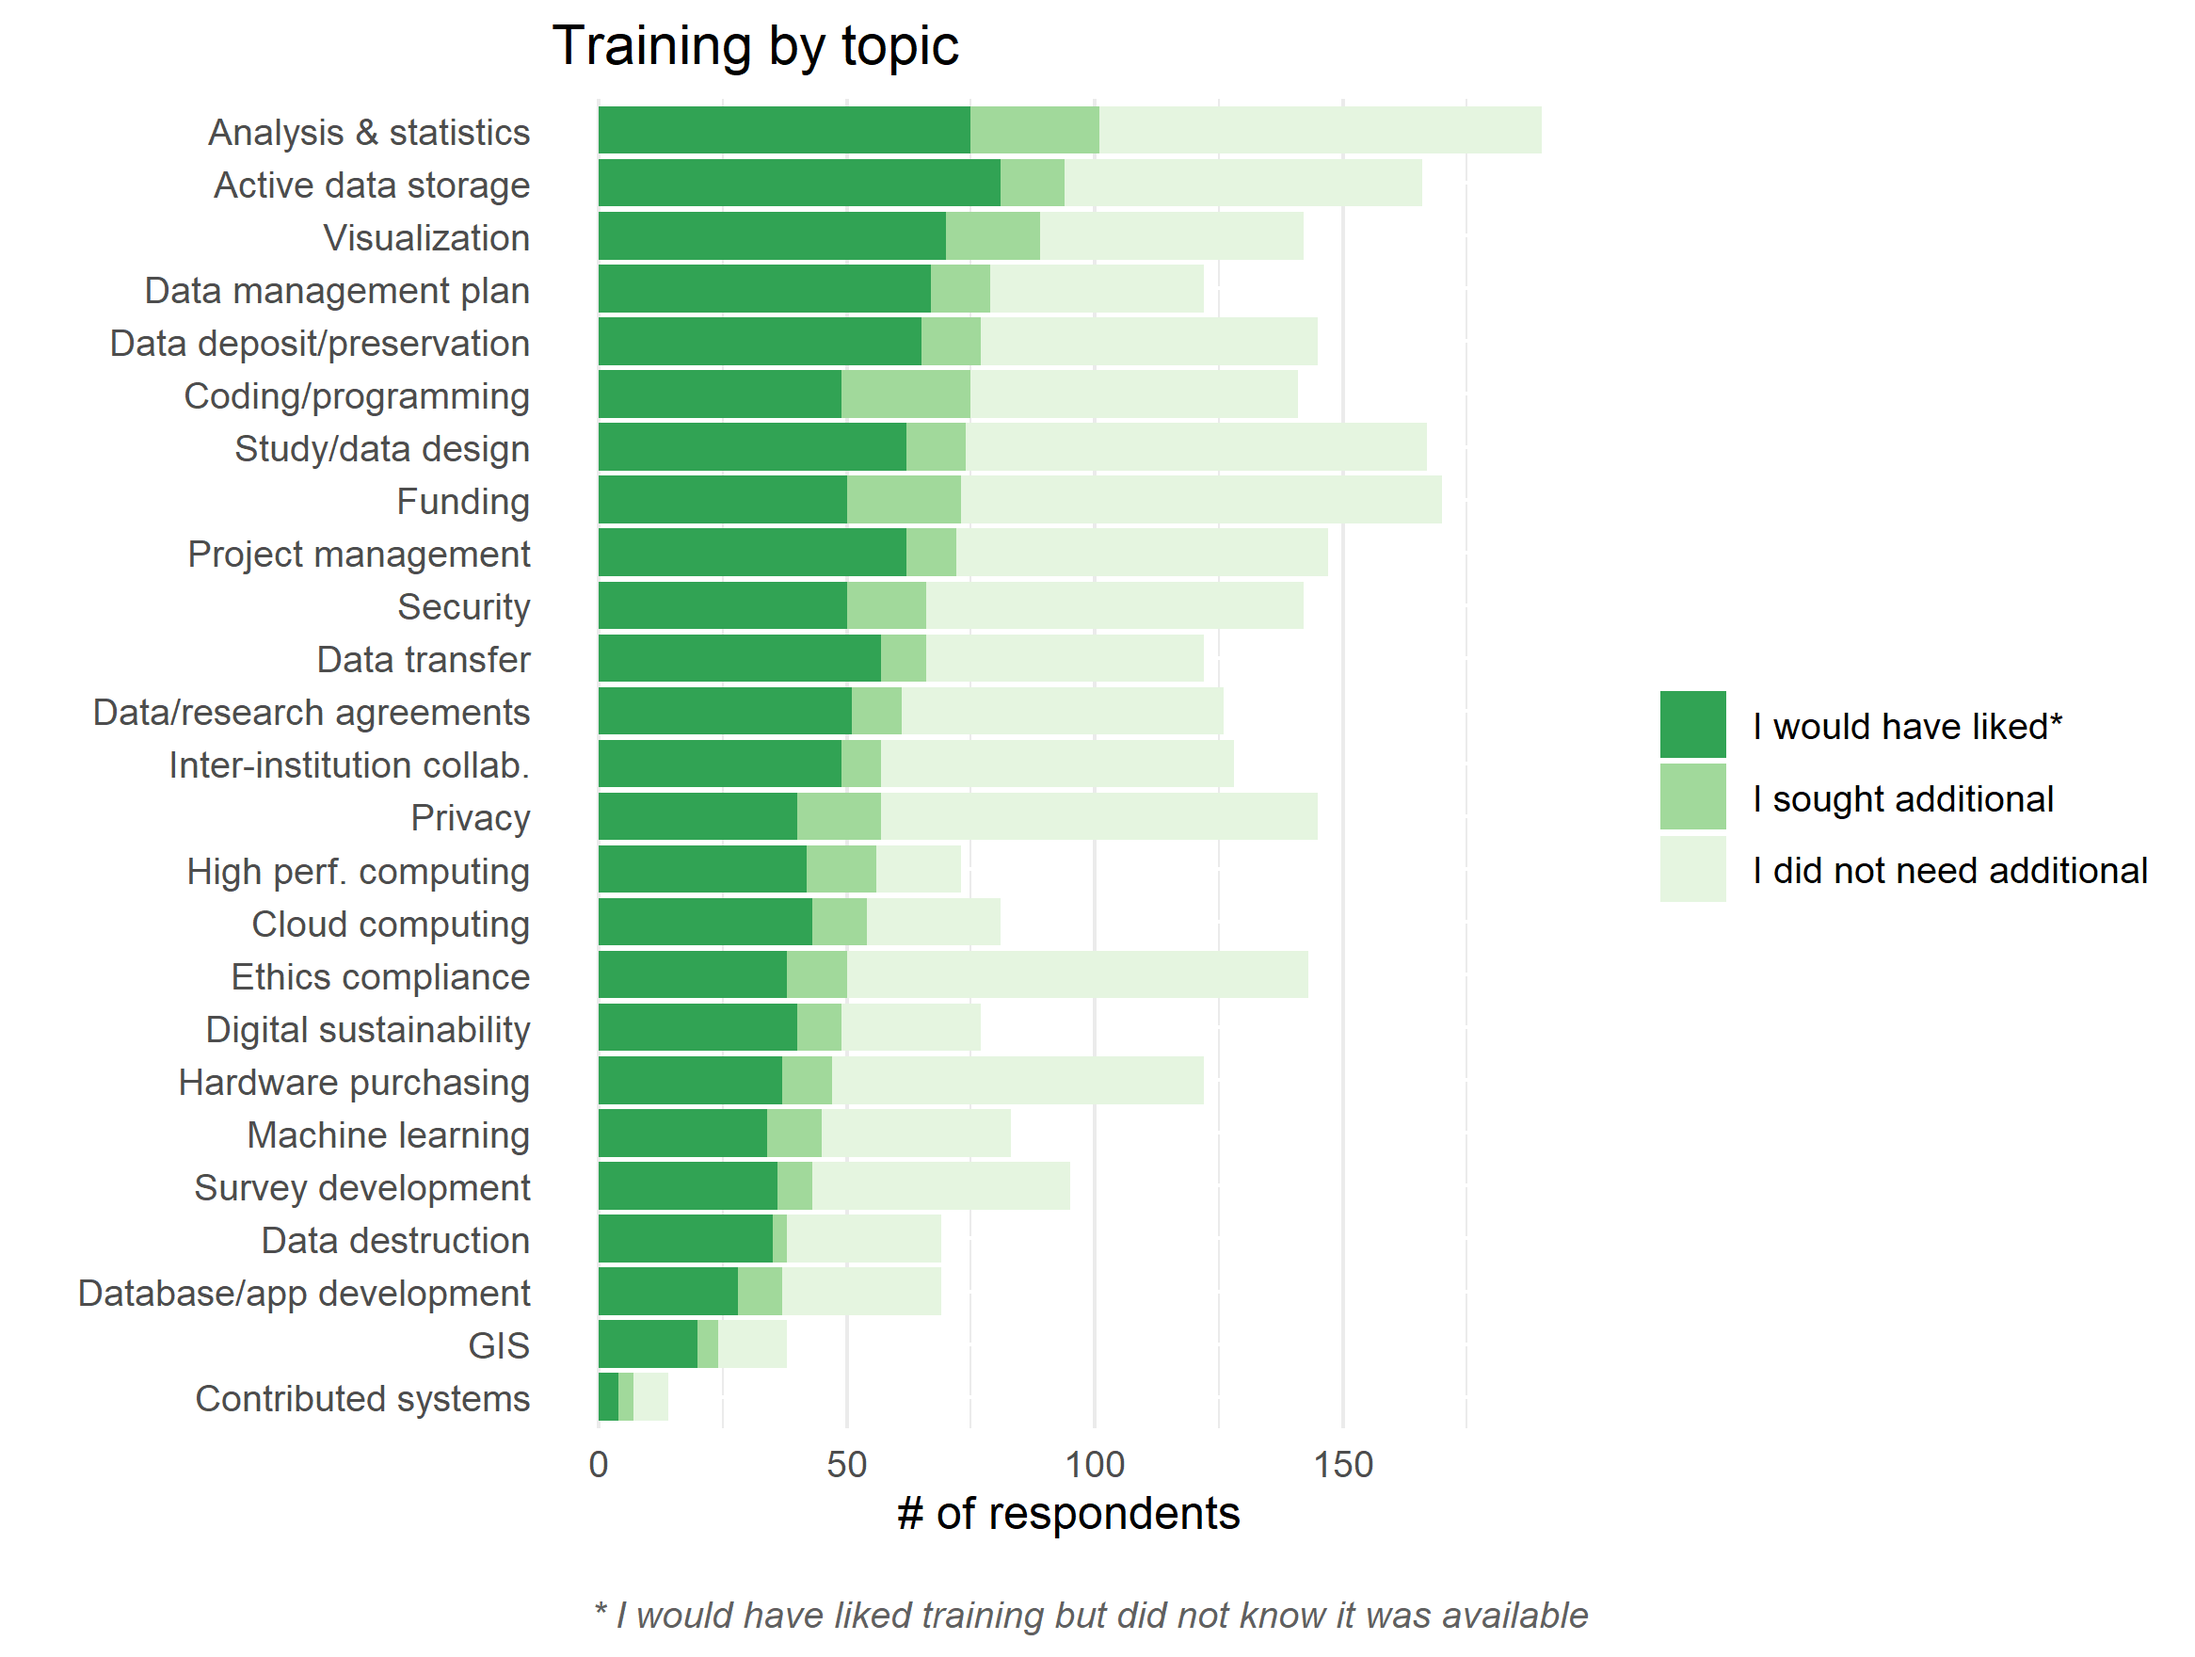
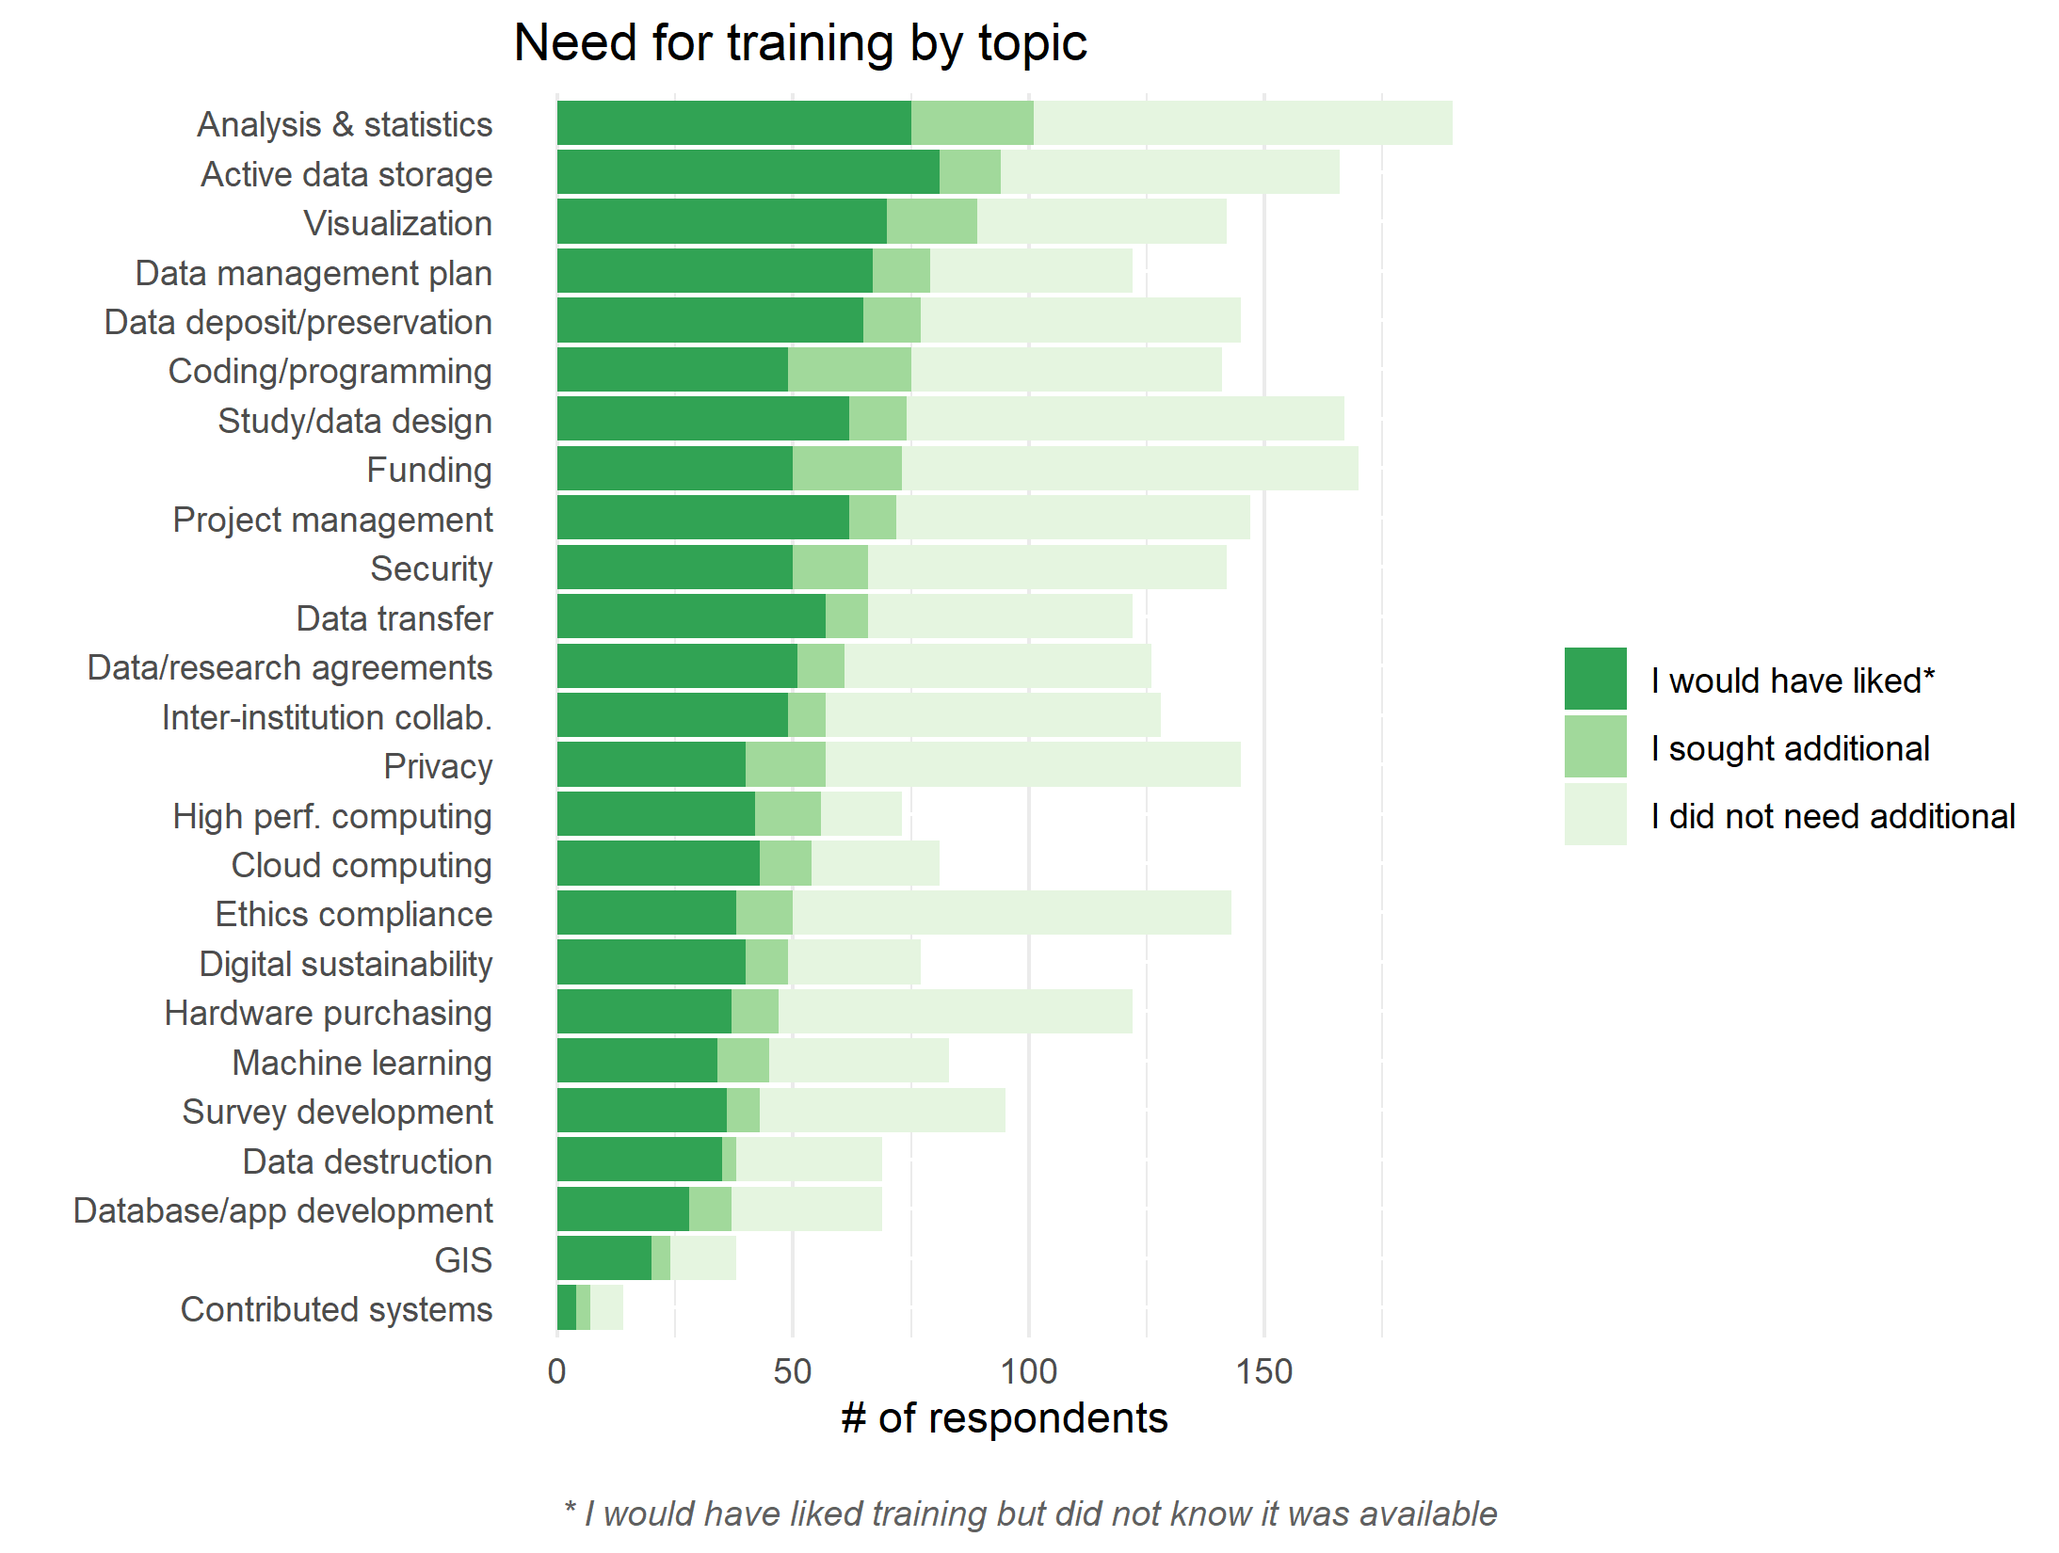
embedded graphs

diff --git a/assets/main.scss b/assets/main.scss
@@ -96,3 +96,13 @@ h3 {
   margin-bottom: 20px;
   background: #f0f6fa;
 }
+
+
+/* Jeremy added the "graph" class for graphs he added to the report. The "position" and "top" settings float the graph up so the title is on about the same line as the "Figure X" title that introduces it. I add a new class instead of updating an existing one because I didn't want to interfere with other work, but our figure/graph classes could be simplified  */
+
+.graph {
+  position: relative;
+  top: -40px;
+  margin: 0, 20px;
+  width: 85%
+}

diff --git a/library.md b/library.md
@@ -36,9 +36,10 @@ On the Vancouver campus, DRI activities in the realms of RDM, and tools for data
 2. Data Retention/deposit/preservation: 16% of researchers who sought support went to Library 
 3. Visualization: 14% of researchers who sought support went to Library 
 
+<br/>
 **Figure 1**
 
-<img style="position: relative; top: -65px; margin: 20px" alt="Need for support and training" src="graphs/UBC_Library_support-training.png">
+<img class="graph" alt="Places support is sought" src="graphs/Library_support_where.png">
 
 ### DRI Training & UBC Library 
 
@@ -46,13 +47,14 @@ On the Vancouver campus, DRI activities in the realms of RDM, and tools for data
 2. Data management plan (DMP): 20% of researchers who sought training went to Library 
 3. Digital sustainability: 30% of researchers who sought training went to Library 
 
+<br/>
 **Figure 2**
 
-<img style="position: relative; top: -65px; margin: 20px" alt="Places support and training are sought" src="graphs/UBC_Library_where.png">
+<img class="graph" alt="Places training is sought" src="graphs/Library_training_where.png">
   
 ## Discussion
 
-Awarenss of training and support, or lack thereof, is a key highlight of this survey. In spite of UBC Library having several communication channels, this survey suggests that the message of the full breadth of services available from UBC Library are not being effectively received by UBC researchers. When asked about this in the focus groups researchers commented on leveraging internal, discipline specficic communication channels for learning about and seeking DRI supports. They also commented on it being challenging to know where to ask within UBC for support, and consequenlty often relying on one person who was helpful in the past to navigate all future questions related to DRI. Lastly, during focus groups researchers noted that having a single point of contact for all inquiries would help to lessen the burden of investigating where to seek support and training.
+Awareness of training and support, or lack thereof, is a key highlight of this survey. In spite of UBC Library having several communication channels, this survey suggests that the message of the full breadth of services available from UBC Library are not being effectively received by UBC researchers. When asked about this in the focus groups researchers commented on leveraging internal, discipline specficic communication channels for learning about and seeking DRI supports. They also commented on it being challenging to know where to ask within UBC for support, and consequenlty often relying on one person who was helpful in the past to navigate all future questions related to DRI. Lastly, during focus groups researchers noted that having a single point of contact for all inquiries would help to lessen the burden of investigating where to seek support and training.
 
 As a leader in RDM services with a dedicated RDM Librarian and an RDM Team that spans both campuses, alongside national partnerships, the library is in a strong position to support RDM. RDM is a complex undertaking involving data transfer, authorization, ethics, computational hardware and software, taxonomies, coding, and variable level organization of data to name only a few aspects. When done well, RDM leverages expertise from across a breadth of practices. A key element of success is knowing where expertise resides to address each aspect of RDM. Increasing collaborations across units that service training and support for RDM stands to improve practices and increase the scope of researchers availing themselves of the significant infrastcture and resources UBC Library has investeted in to support RDM.
 

diff --git a/fullreport.md b/fullreport.md
@@ -8,6 +8,7 @@ title: Full Report
 * [Methods](#methods) 
 * [Results](#results)
 * [Discussion and Next Steps](#discussion-and-next-steps)
+* [Detailed graphs](#detailed-graphs)
 
 ## Background
 
@@ -83,13 +84,25 @@ For the purpose of this report, this section will feature the high-level finding
 
 One of the most striking findings from the survey was the discrepancy between the relatively small number of those that sought training or support, compared to the much larger numbers of those that would have liked training or support but didn’t know they were available (see Figure X. and X.)  Of particular note, is that this gap between those that sought training or support versus those that wanted it spans across nearly all of the 25 DRI elements and the respective portfolios and departments that serve these areas.   
 
-<img style="margin: -100px 0" alt="Need for support/training" src="graphs/overall_support-training.png">
+<br/>
+**Figure X**
+
+<img class="graph" style="width: 65%" alt="Need for support" src="graphs/overall_support.png">
+
+
+**Figure X**
+
+<img class="graph" style="width: 65%;" alt="Need for training" src="graphs/overall_training.png">
+
 
 ### Dispersion of Support and Training_
 
 Another notable finding is that of the respondents that sought training or support, there was no single portfolio or department that unanimously served a particular area, but rather, all 25 areas of DRI were served by several different units (see Figures X and X).  Furthermore, for those that did seek both support and training, many turned to sources outside of UBC for a variety of DRI areas.    
 
-<img style="margin: 20px 0" alt="Need for support/training" src="graphs/overall_where.png">
+<br/>
+**Figure X**
+
+<img class="graph" style="width: 80%" alt="Need for support/training" src="graphs/overall_where.png">
 
 ### Training Within UBC
 
@@ -132,3 +145,14 @@ As a response to the upcoming Tri-Agency requirement of an RDM Institutional Str
 
 ### Leveraging National Partnerships
 In line with a future state of centralized DRI services within UBC, part of this dialogue should consider what types of training UBC is interested in and capable of providing internally, both currently and in an idea future state, and what training can be properly accommodated outside of UBC.  While there are existing partnerships between UBC and Alliance Portage / Alliance Compute Canada, a potential area of inquiry would be to investigate how DRAC training could more formally be situated as a supplement to the training offered within UBC, both in terms of content and how all training opportunities are promoted and discovered among the UBC research community.  Combining these efforts would broaden the availability of live (in-person and virtual) training, as well as asynchronous training and modules, providing more comprehensive and timely training opportunities for the UBC research community.  This approach would also facilitate UBC in aligning with the national DRI landscape, foster stronger relationships between UBC and the DRAC community, as well as maximize resources on a national scale.   
+
+## Detailed graphs
+<br/>
+**Figure X**
+
+<img class="graph" alt="Need for support by topic" src="graphs/detailed_support.png">
+
+**Figure X**
+
+<img class="graph" alt="Need for training by topic" src="graphs/detailed_training.png">
+

diff --git a/arc.md b/arc.md
@@ -59,11 +59,20 @@ _Top 3 areas in which **researchers sought support from ARC** (Figure X for full
 2. Active Data Storage: 21% of researchers who sought support went to ARC
 3. Data Retention/Deposit/Preservation: 23% of researchers who sought support went to ARC
 
+<br/>
+**Figure 1**
+
+<img class="graph" alt="Places support is sought" src="graphs/ARC_support_where.png">
+
+
 _Top 3 areas in which **researchers sought training from ARC** (Figure X for full details)_
 
 1. High-Performance Computing: 35% of researchers who sought training went to ARC
 2. Coding/Programming:  15% of researches who sought training went to ARC
 3. Cloud Computing:  23% of researches who sought training went to ARC
 
+<br/>
+**Figure 2**
 
+<img class="graph" alt="Places training is sought" src="graphs/ARC_training_where.png">
 
